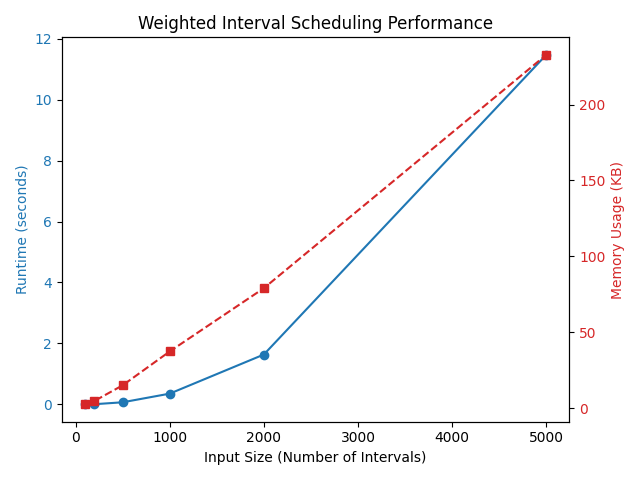
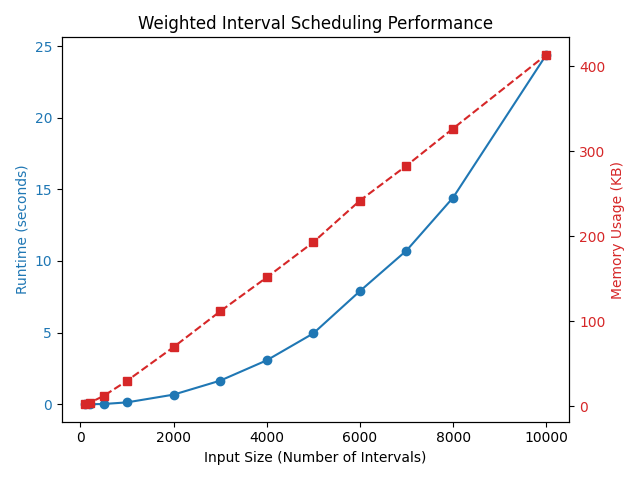
Minor algorithm fixes and seperation of graphs

diff --git a/WIS.py b/WIS.py
@@ -11,9 +11,6 @@ class Interval:
         self.end = end
         self.weight = weight
 
-    def __repr__(self):
-        return f"[{self.start}, {self.end}, w={self.weight}]"
-
 
 def generate_intervals(n, max_time=1000, max_weight=100):
     intervals = []
@@ -25,93 +22,208 @@ def generate_intervals(n, max_time=1000, max_weight=100):
     return intervals
 
 
-def compute_previous_intervals(intervals):
-    # Intervals must be sorted by end time
-    start_times = [interval.start for interval in intervals]
-    p = []
+def find_compatible_previous(intervals):    
+    # Time complexity: O(n^2)
+    # Find the index of the last compatible interval for each interval
+    # Compatible means the previous interval's end time is <= current interval's start time
+    compatible = []
     for j in range(len(intervals)):
-        i = bisect.bisect_right([intervals[k].end for k in range(len(intervals))], intervals[j].start) - 1
-        p.append(i)
-    return p
+        last_compatible = -1  # no compatible interval
+        
+        for i in range(j):
+            if intervals[i].end <= intervals[j].start:
+                last_compatible = i
+        compatible.append(last_compatible)
+    return compatible      # Outputs array of indexes of last compatible interval for each interval
 
 
-def weighted_interval_scheduling(intervals):
-    # Sort by end time
+def solve_weighted_intervals(intervals):
+    # Sort intervals by end time to ensure we process them in order
     intervals.sort(key=lambda x: x.end)
     n = len(intervals)
-    p = compute_previous_intervals(intervals)
+    compatible = find_compatible_previous(intervals)
 
-    M = [0] * (n + 1)
+    # Initialize the optimal value array for memoization
+    # optimal_values[j] represents the maximum weight achievable using intervals up to index j-1
+    optimal_values = [0] * (n + 1)
+    
+    optimal_values[0] = 0 # Base case
+
+    # Recurrence equation: for each interval j, decide whether to include it or not
     for j in range(1, n + 1):
-        incl = intervals[j - 1].weight + M[p[j - 1] + 1]
-        M[j] = max(incl, M[j - 1])
-    return M, p
+        # Option 1: Include the current interval (j-1) and add its weight to the optimal solution of the last compatible interval
+        include_weight = intervals[j - 1].weight + optimal_values[compatible[j - 1] + 1]
+        # Option 2: Exclude the current interval, take the optimal solution up to the previous interval
+        exclude_weight = optimal_values[j - 1]
+        # Optimal function: choose the maximum of including or excluding the current interval
+        optimal_values[j] = max(include_weight, exclude_weight)
+
+    return optimal_values, compatible
 
 
-def reconstruct_solution(intervals, p, M):
+def brute_force_intervals(intervals, ind, last_end):
+    # Brute force recursive solution for weighted interval scheduling
+    # ind: current interval index
+    # last_end: end time of the last selected interval
+    # Returns maximum weight achievable from index ind onward
+    if ind == len(intervals):
+        return 0  # Base case: no more intervals
+
+    # Exclude the current interval
+    exclude = brute_force_intervals(intervals, ind + 1, last_end)
+
+    # Include the current interval if compatible
+    include = 0
+    if intervals[ind].start >= last_end:
+        include = intervals[ind].weight + brute_force_intervals(intervals, ind + 1, intervals[ind].end)
+
+    return max(include, exclude)
+
+
+def reconstruct_optimal_solution(intervals, compatible, optimal_values):
     solution = []
     j = len(intervals)
     
+    # Backtracking: reconstruct the solution by checking which choice was made at each step
     while j > 0:
-        if intervals[j - 1].weight + M[p[j - 1] + 1] > M[j - 1]:
+        # If including the interval at j-1 gave a better result, add it to the solution
+        if intervals[j - 1].weight + optimal_values[compatible[j - 1] + 1] > optimal_values[j - 1]:
             solution.append(intervals[j - 1])
-            j = p[j - 1] + 1
+            j = compatible[j - 1] + 1
         else:
             j -= 1
 
-    solution.reverse()  # Optional: if you want the solution in increasing order
+    solution.reverse()  # Reverse to get intervals in increasing order
     return solution
 
 
+def visualize_optimal_intervals(intervals, optimal_intervals):
+    # Visualize all intervals and highlight the optimal ones
+    fig, ax = plt.subplots(figsize=(10, len(intervals) * 0.4))
+
+    # Plot each interval as a horizontal bar
+    for i, interval in enumerate(intervals):
+        # Determine if this interval is in the optimal solution
+        is_optimal = interval in optimal_intervals
+        color = 'green' if is_optimal else 'gray'
+        alpha = 1.0 if is_optimal else 0.3
+        
+        # Draw the interval as a horizontal bar
+        ax.barh(i, interval.end - interval.start, left=interval.start, height=0.4, color=color, alpha=alpha)
+        # Annotate the weight in the middle of the bar
+        ax.text((interval.start + interval.end) / 2, i, f'w={interval.weight}', 
+                ha='center', va='center', color='white' if is_optimal else 'black', fontsize=8)
+
+    # Set labels and title
+    ax.set_xlabel('Time')
+    ax.set_ylabel('Intervals')
+    ax.set_yticks(range(len(intervals)))
+    ax.set_yticklabels([f'[{interval.start}, {interval.end}]' for interval in intervals])
+    ax.set_title('Weighted Interval Scheduling: Optimal Intervals')
+    
+    # Adjust layout and save the plot
+    plt.tight_layout()
+    plt.savefig('optimal_intervals_plot.png')
+    plt.close()
+
 
 # -------------------------------
-# 🔍 Experimental Analysis
+#  Experimental Analysis
 # -------------------------------
 
-def performance_analysis(sizes):
-    runtimes = []
+def performance_analysis(dp_sizes, compare_sizes):
+    dp_runtimes = []
+    compare_dp_runtimes = []
+    brute_runtimes = []
     memories = []
 
-    for n in sizes:
+    # Dynamic programming performance (large sizes for standalone plot)
+    for n in dp_sizes:
         intervals = generate_intervals(n)
         tracemalloc.start()
         start_time = time.perf_counter()
-        M, p = weighted_interval_scheduling(intervals)
-        _ = reconstruct_solution(intervals, p, M)
+        optimal_values, compatible = solve_weighted_intervals(intervals)
+        _ = reconstruct_optimal_solution(intervals, compatible, optimal_values)
         end_time = time.perf_counter()
         current, peak = tracemalloc.get_traced_memory()
         tracemalloc.stop()
 
-        runtimes.append(end_time - start_time)
+        dp_runtimes.append(end_time - start_time)
         memories.append(peak / 1024)  # Convert to KB
 
-    return runtimes, memories
+    # Dynamic programming and brute force performance (smaller sizes for comparison)
+    for n in compare_sizes:
+        # Dynamic programming
+        intervals = generate_intervals(n)
+        start_time = time.perf_counter()
+        optimal_values, compatible = solve_weighted_intervals(intervals)
+        _ = reconstruct_optimal_solution(intervals, compatible, optimal_values)
+        end_time = time.perf_counter()
+        compare_dp_runtimes.append(end_time - start_time)
+
+        # Brute force
+        intervals = generate_intervals(n)
+        intervals.sort(key=lambda x: x.end)  # Sort for consistency
+        start_time = time.perf_counter()
+        _ = brute_force_intervals(intervals, 0, 0)
+        end_time = time.perf_counter()
+        brute_runtimes.append(end_time - start_time)
+
+    return dp_runtimes, compare_dp_runtimes, brute_runtimes, memories
 
 
-def plot_results(sizes, runtimes, memories):
-    fig, ax1 = plt.subplots()
-
+def plot_results(dp_sizes, compare_sizes, dp_runtimes, compare_dp_runtimes, brute_runtimes, memories):
+    # Plot 1: Dynamic programming runtime (large sizes)
+    fig1, ax1 = plt.subplots()
+    ax1.plot(dp_sizes, dp_runtimes, marker='o', color='tab:blue', label='Dynamic Programming Runtime')
     ax1.set_xlabel('Input Size (Number of Intervals)')
-    ax1.set_ylabel('Runtime (seconds)', color='tab:blue')
-    ax1.plot(sizes, runtimes, marker='o', color='tab:blue', label='Runtime')
-    ax1.tick_params(axis='y', labelcolor='tab:blue')
+    ax1.set_ylabel('Runtime (seconds)')
+    ax1.set_title('Dynamic Programming Runtime (O(n²))')
+    ax1.legend()
+    ax1.grid(True)
+    plt.tight_layout()
+    plt.savefig("dp_runtime_plot.png")
+    plt.close()
 
-    ax2 = ax1.twinx()
-    ax2.set_ylabel('Memory Usage (KB)', color='tab:red')
-    ax2.plot(sizes, memories, marker='s', linestyle='--', color='tab:red', label='Memory Usage')
-    ax2.tick_params(axis='y', labelcolor='tab:red')
+    # Plot 2: Memory usage of dynamic programming
+    fig2, ax2 = plt.subplots()
+    ax2.plot(dp_sizes, memories, marker='s', color='tab:red', label='Memory Usage')
+    ax2.set_xlabel('Input Size (Number of Intervals)')
+    ax2.set_ylabel('Memory Usage (KB)')
+    ax2.set_title('Dynamic Programming Memory Usage')
+    ax2.legend()
+    ax2.grid(True)
+    plt.tight_layout()
+    plt.savefig("memory_plot.png")
+    plt.close()
 
-    plt.title('Weighted Interval Scheduling Performance')
-    fig.tight_layout()
-    plt.savefig("performance_plot.png")
+    # Plot 3: Runtime comparison (dynamic programming vs. brute force, smaller sizes)
+    fig3, ax3 = plt.subplots()
+    ax3.plot(compare_sizes, compare_dp_runtimes, marker='o', color='tab:blue', label='Dynamic Programming (O(n²))')
+    ax3.plot(compare_sizes, brute_runtimes, marker='^', color='tab:orange', label='Brute Force (O(2^n))')
+    ax3.set_xlabel('Input Size (Number of Intervals)')
+    ax3.set_ylabel('Runtime (seconds)')
+    ax3.set_title('Runtime Comparison: Dynamic Programming vs. Brute Force')
+    ax3.legend()
+    ax3.grid(True)
+    plt.tight_layout()
+    plt.savefig("runtime_comparison_plot.png")
+    plt.close()
 
 
-
-# -------------------------------
-# 🧪 Run and Visualize
-# -------------------------------
+# ----------------------------------
+#  Run algorithm and visualizations
+# ----------------------------------
 
 if __name__ == "__main__":
-    test_sizes = [100, 200, 500, 1000, 2000, 5000]
-    runtimes, memories = performance_analysis(test_sizes)
-    plot_results(test_sizes, runtimes, memories)
+    # Performance analysis
+    dp_sizes = [100, 200, 500, 1000, 2000, 3000, 4000, 5000, 6000, 8000]
+    compare_sizes = [10, 20, 30, 40, 50]  # Sizes for DP vs. brute force comparison
+    dp_runtimes, compare_dp_runtimes, brute_runtimes, memories = performance_analysis(dp_sizes, compare_sizes)
+    plot_results(dp_sizes, compare_sizes, dp_runtimes, compare_dp_runtimes, brute_runtimes, memories)
+
+    # Visualize optimal intervals for a small set (25 intervals)
+    intervals = generate_intervals(25, max_time=100, max_weight=50)
+    optimal_values, compatible = solve_weighted_intervals(intervals)
+    optimal_intervals = reconstruct_optimal_solution(intervals, compatible, optimal_values)
+    visualize_optimal_intervals(intervals, optimal_intervals)
